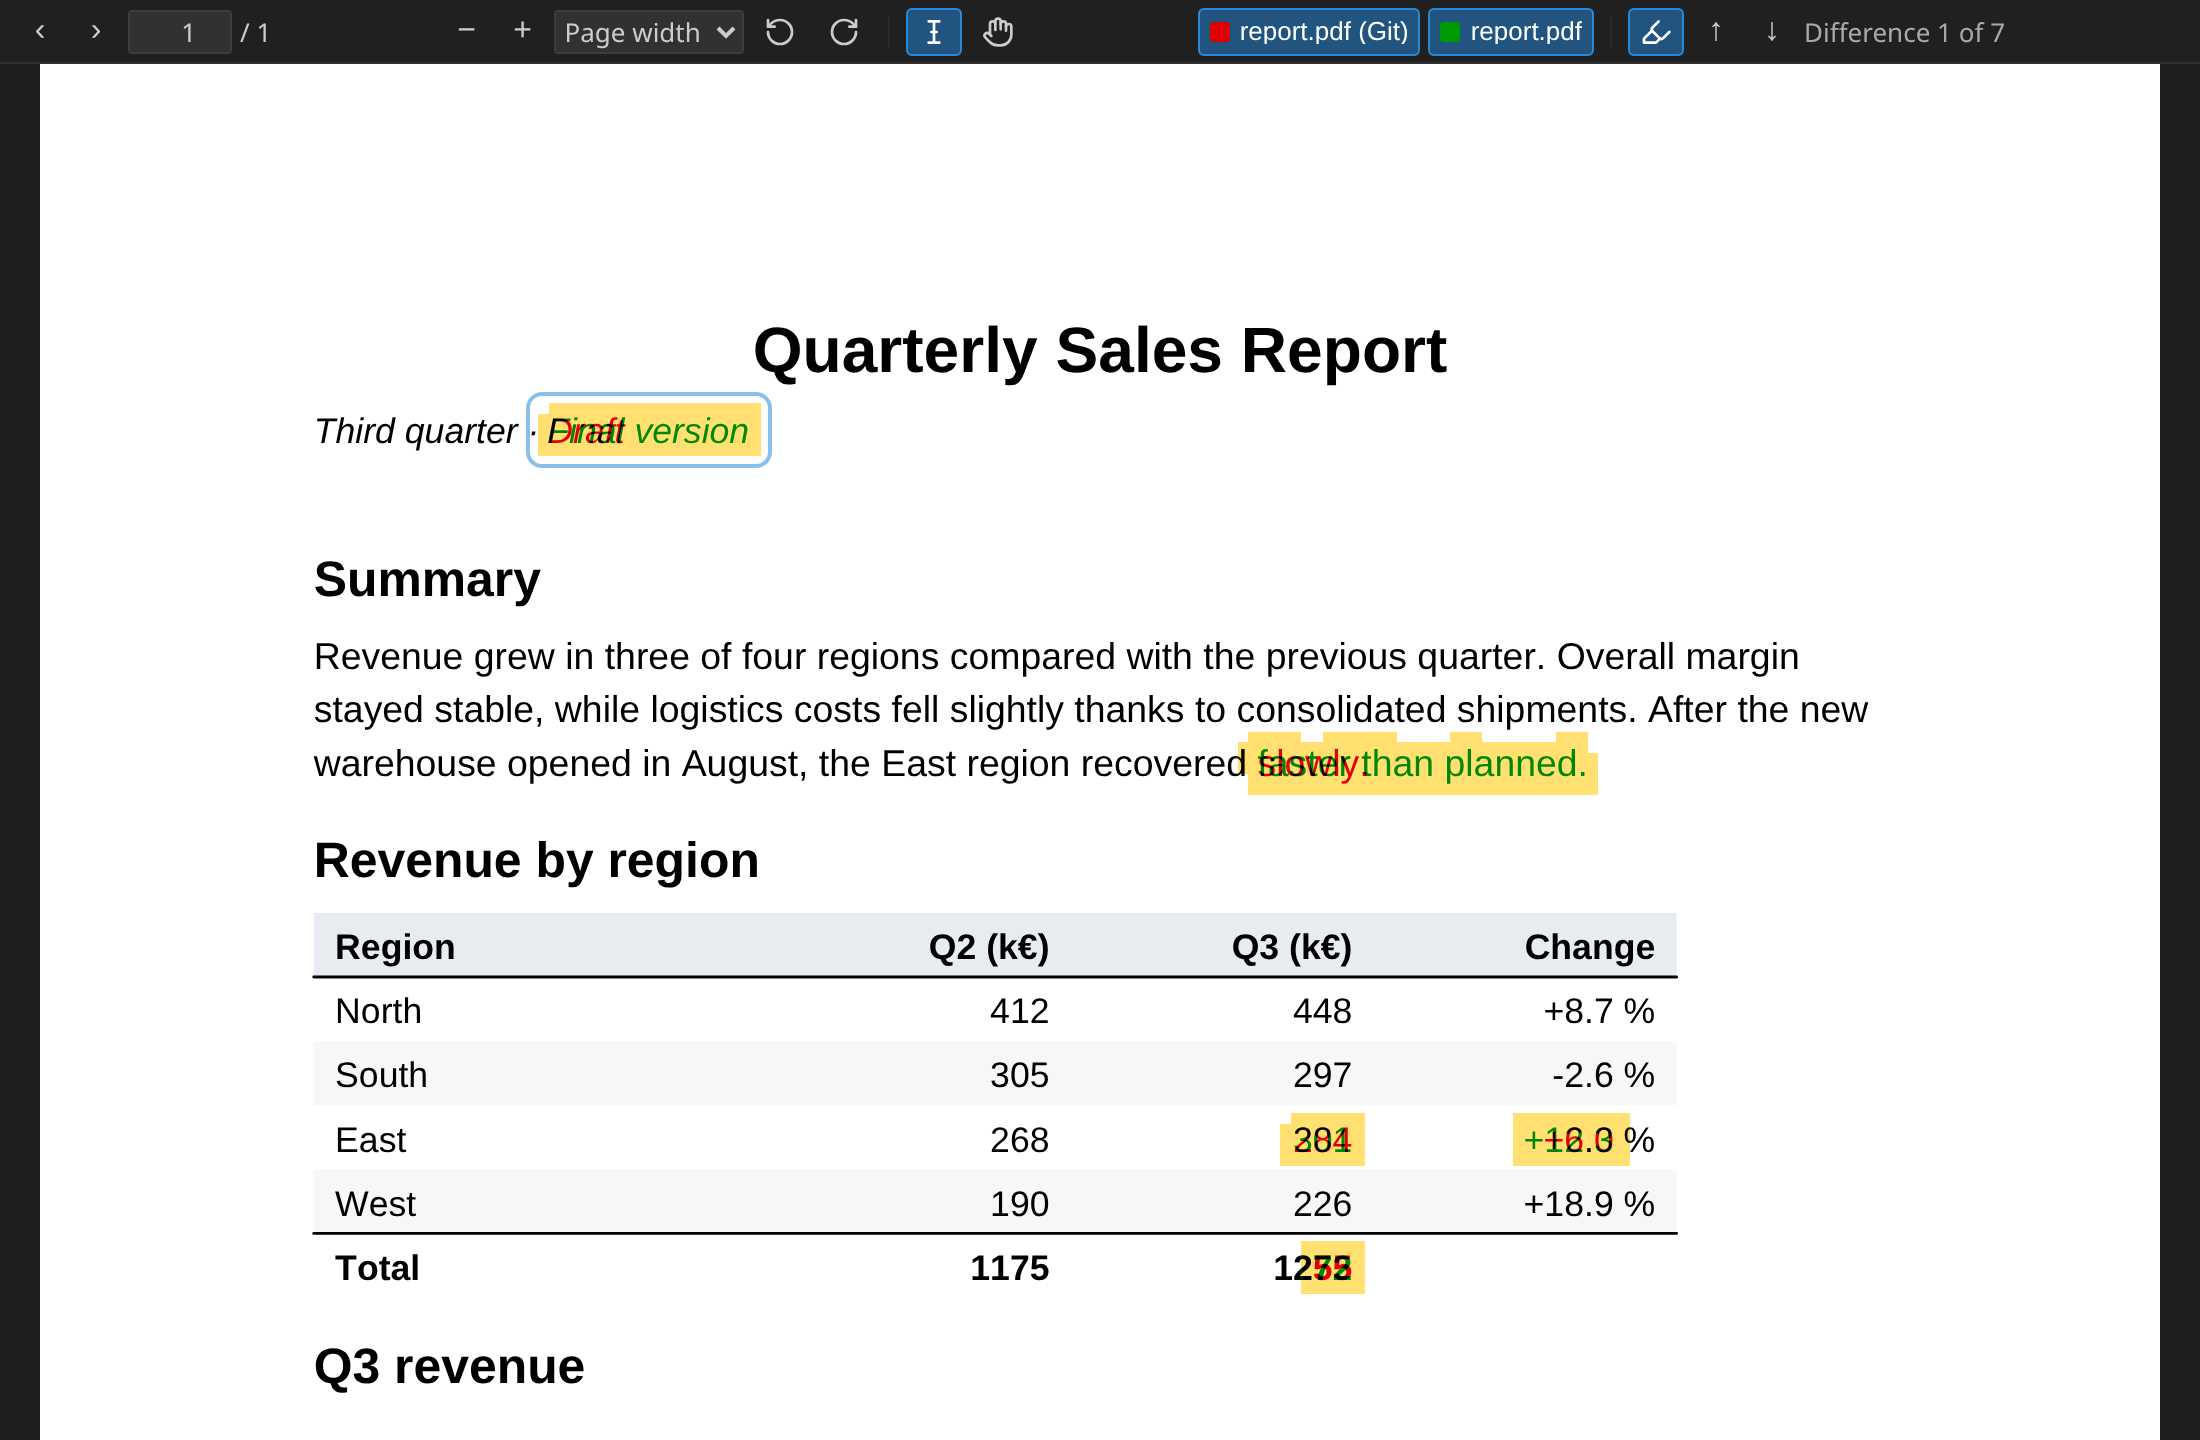
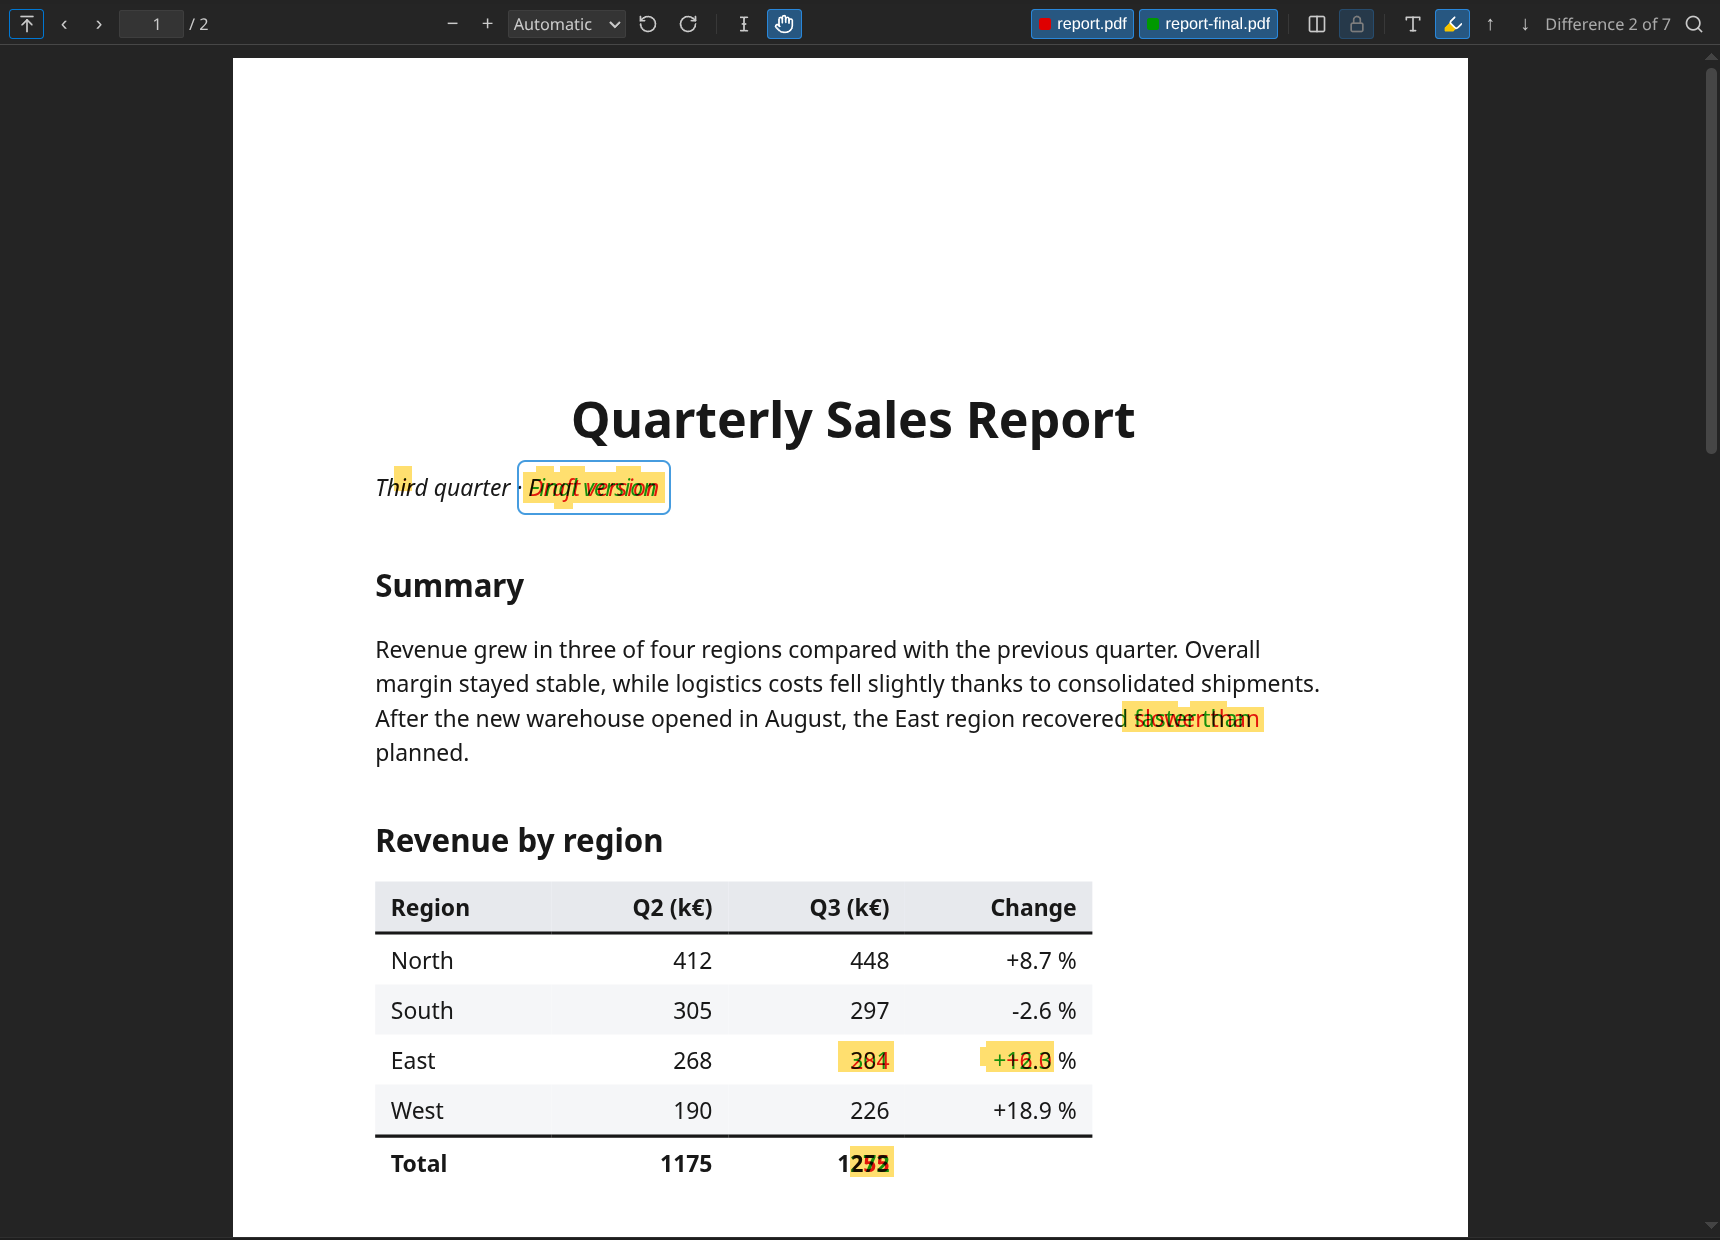
version 0.1.10: side by side with the scroll lock, Ctrl+mouse wheel zooms around the mouse pointer; new demo GIF and comparison screenshot

diff --git a/media/compare.js b/media/compare.js
@@ -169,6 +169,11 @@ async function main() {
           e.preventDefault();
           const v = zoomLinked() || c === container ? viewer : secondViewer;
           zoomAt(v, e);
+          // pdf.js has scrolled the second viewer to keep its top left corner; with the scroll
+          // lock it follows the main one, before its scroll event can move the main one back.
+          if (v === viewer) {
+            syncScroll(container);
+          }
         }
       },
       { passive: false },

diff --git a/README.md b/README.md
@@ -8,7 +8,7 @@ Displays PDF files directly in the editor and compares two PDFs visually. Render
 > committing a PDF. A side-by-side view was not enough for that, because I still had to hunt
 > for the differences myself.
 
-![Zooming, paging and searching in a PDF, then comparing it with the committed version from Source Control](images/demo.gif)
+![Zooming, paging and searching in a PDF, comparing it with another PDF, jumping between the differences, comparing the text, and zooming side by side with the scroll lock](images/demo.gif)
 
 ## Features
 
@@ -100,7 +100,7 @@ The extension code is in `src/extension.ts`. The webviews are plain JavaScript m
 
 ```sh
 npx vsce package
-code --install-extension pdf-viewer-diff-0.1.4.vsix
+code --install-extension pdf-viewer-diff-*.vsix
 ```
 
 ## License

diff --git a/CHANGELOG.md b/CHANGELOG.md
@@ -2,6 +2,11 @@
 
 All notable changes to this extension are documented in this file.
 
+## 0.1.10 – 2026-11-01
+
+- Fixed: side by side with the scroll lock, `Ctrl`+mouse wheel zoomed around the top left corner instead of the mouse pointer.
+- README: new demo GIF and screenshot of the comparison.
+
 ## 0.1.9 – 2026-11-01
 
 - Renamed to "PDF Viewer & Compare".
